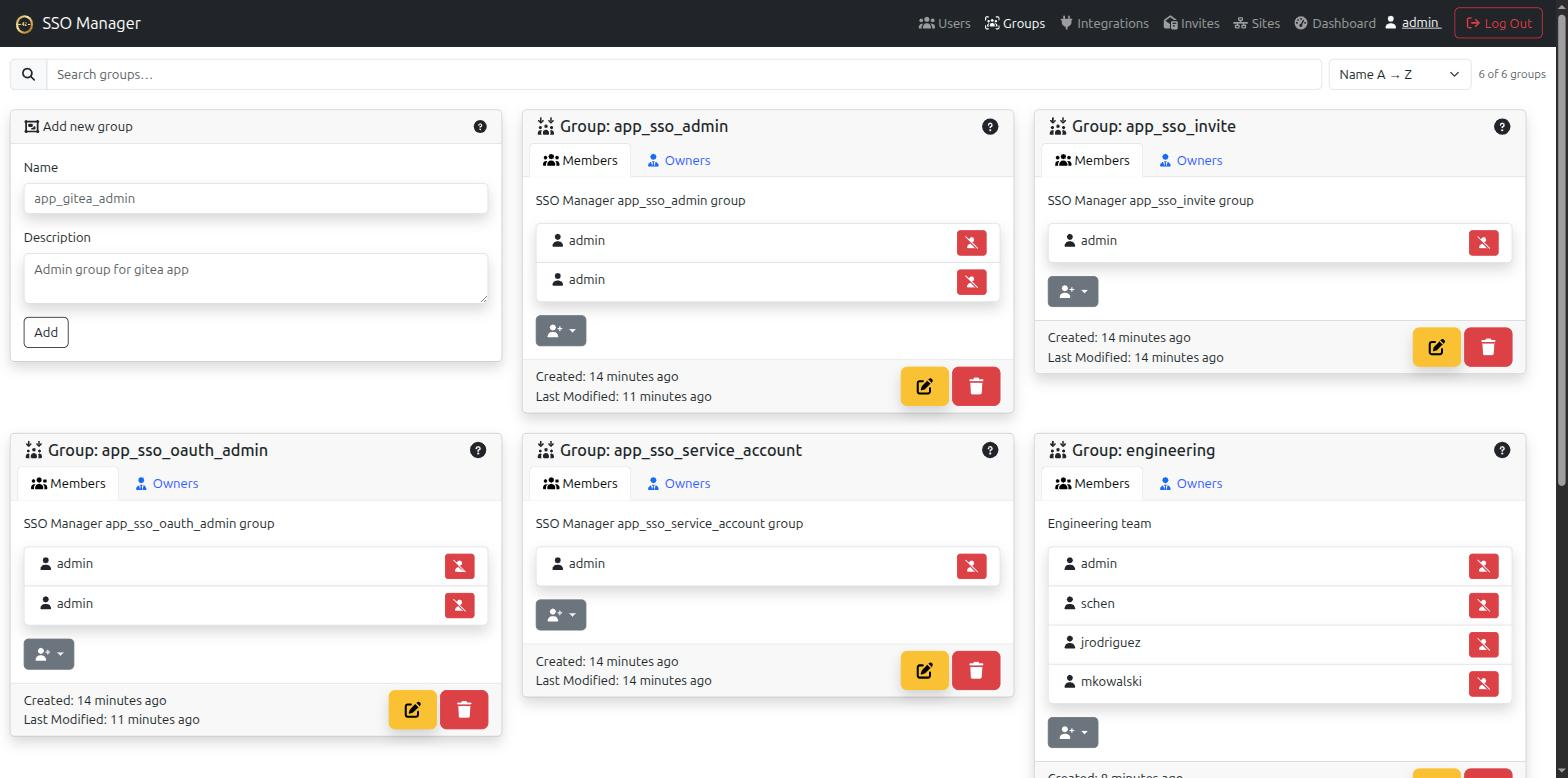
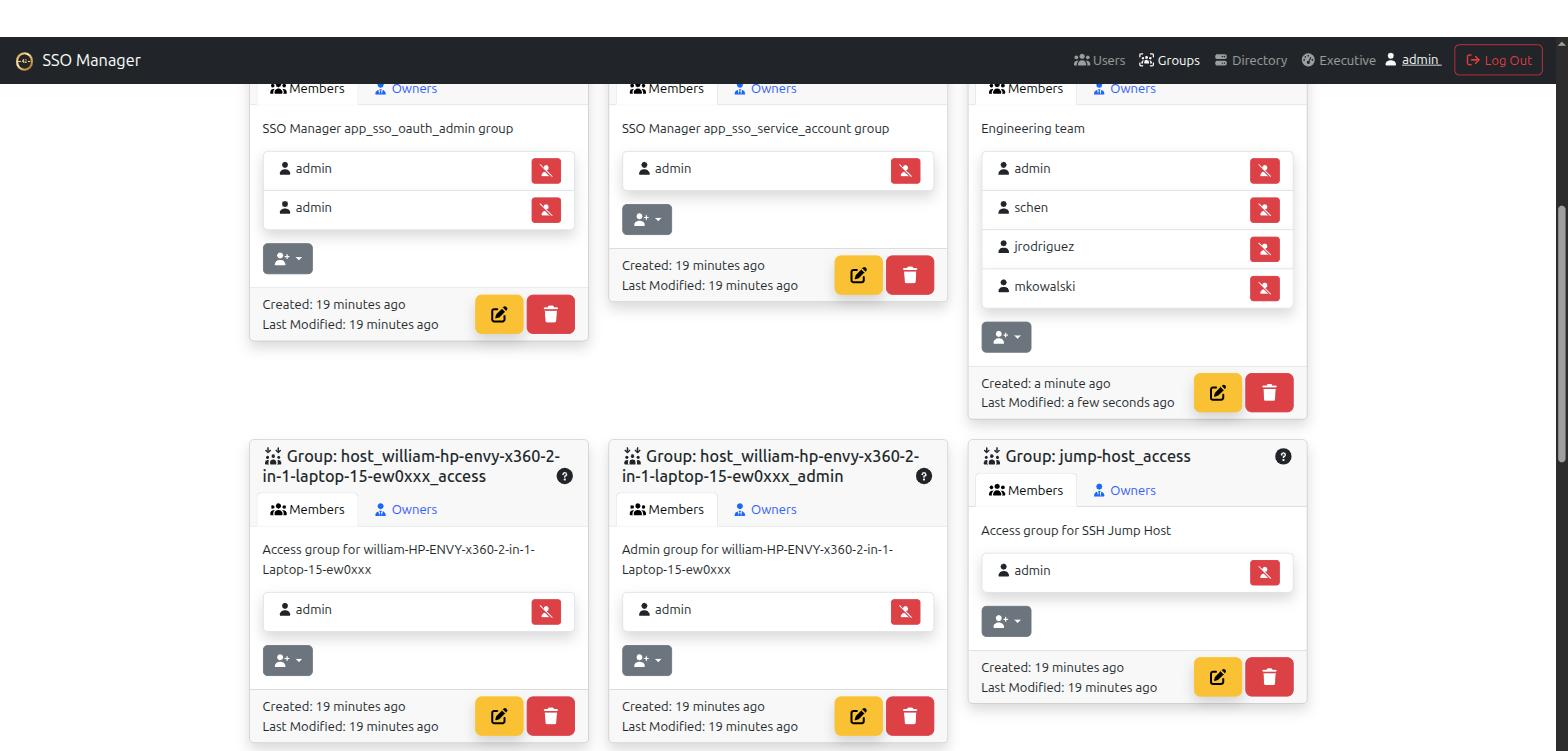
docs: refresh screenshots for the unified UI, add directory.png
Screenshots were still showing the pre-unification nav (Dashboard/Sites/
Integrations); replace with the current Users/Groups/Directory/Executive
shell and add a directory.png for the new consolidated inventory page.
Fix a couple of stale "Integrations page" / "Sites" references in the
concept docs to match.

diff --git a/docs/index.md b/docs/index.md
@@ -22,10 +22,11 @@ one command).
 
 ## Screenshots
 
-<a href="images/dashboard.png" target="_blank"><img src="images/dashboard.png" alt="Dashboard" width="49%"></a>
+<a href="images/dashboard.png" target="_blank"><img src="images/dashboard.png" alt="Executive dashboard" width="49%"></a>
 <a href="images/users.png" target="_blank"><img src="images/users.png" alt="User list" width="49%"></a>
 <a href="images/groups.png" target="_blank"><img src="images/groups.png" alt="Groups" width="49%"></a>
-<a href="images/oauth-clients.png" target="_blank"><img src="images/oauth-clients.png" alt="OAuth clients" width="49%"></a>
+<a href="images/directory.png" target="_blank"><img src="images/directory.png" alt="Directory & inventory" width="49%"></a>
+<a href="images/oauth-clients.png" target="_blank"><img src="images/oauth-clients.png" alt="OAuth client (edit view)" width="49%"></a>
 
 *(click any screenshot to view full size)*
 

diff --git a/docs/directory.md b/docs/directory.md
@@ -58,6 +58,8 @@ Resources carry a flexible `metadata` JSON object that can store essential conte
 
 The Directory Management interface provides a **Tree View** toggle that visually nests your resources, making it easy to comprehend your network topography at a glance. You can also filter, search, and sort your entire infrastructure inventory. From the tree view, you can click the green `+` icon next to any resource to instantly add a child resource beneath it.
 
+<a href="images/directory.png" target="_blank"><img src="images/directory.png" alt="Directory & inventory list view" width="80%"></a>
+
 ## Slug conventions
 
 Slugs are the stable identifiers automation keys off, so the tooling around the SSO Manager follows a shared convention:

diff --git a/docs/concepts-accounts.md b/docs/concepts-accounts.md
@@ -46,7 +46,7 @@ on, just like anyone else's.
 
 A **group** is just a named list of accounts, used to control access. This
 app has a handful of built-in groups that grant admin powers (e.g. only
-people in the `app_sso_admin` group can see the Users/Groups/Integrations
+people in the `app_sso_admin` group can see the Users/Groups/Directory/Executive
 pages at all), but you can also make your own groups for any app you
 connect — say, a group listing everyone who should be allowed into your
 photo server. Once a group exists, add or remove members from the

diff --git a/docs/concepts-oauth-apps.md b/docs/concepts-oauth-apps.md
@@ -28,7 +28,7 @@ what matters practically is the handful of concepts below.
 ## What's a "client"?
 
 Every app you connect is registered here as a **client** — a single entry
-on the Integrations page representing that one app. Registering a client
+in the Directory representing that one app. Registering a client
 gives you a **Client ID** and **Client Secret**: think of these like a
 username and password, but for the *app itself* rather than for a person.
 You paste them into the other app's own "Single Sign-On" or "OIDC" setup

diff --git a/docs/oauth.md b/docs/oauth.md
@@ -64,6 +64,8 @@ Clients are managed directly from the **Directory** tab in the web UI. They are 
 
 > All client-management actions use the standard Directory API (`/api/directory-admin/resources`) and are gated by the `app_sso_directory_admin` group.
 
+<a href="images/oauth-clients.png" target="_blank"><img src="images/oauth-clients.png" alt="Editing an OAuth client resource" width="80%"></a>
+
 ## Scopes
 
 | Scope | Claims / access |
